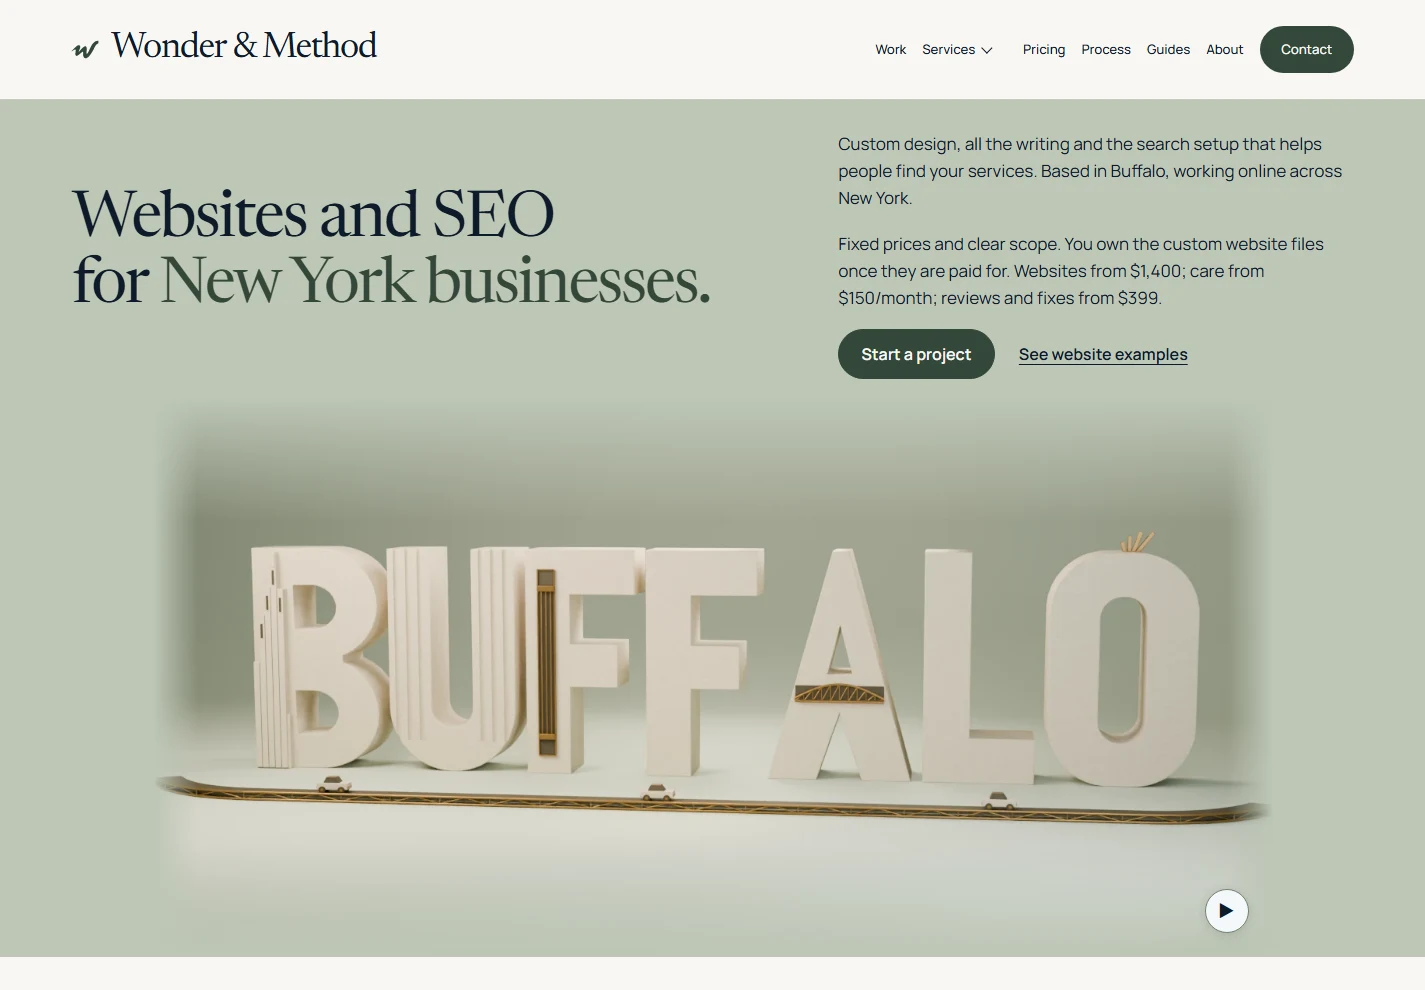
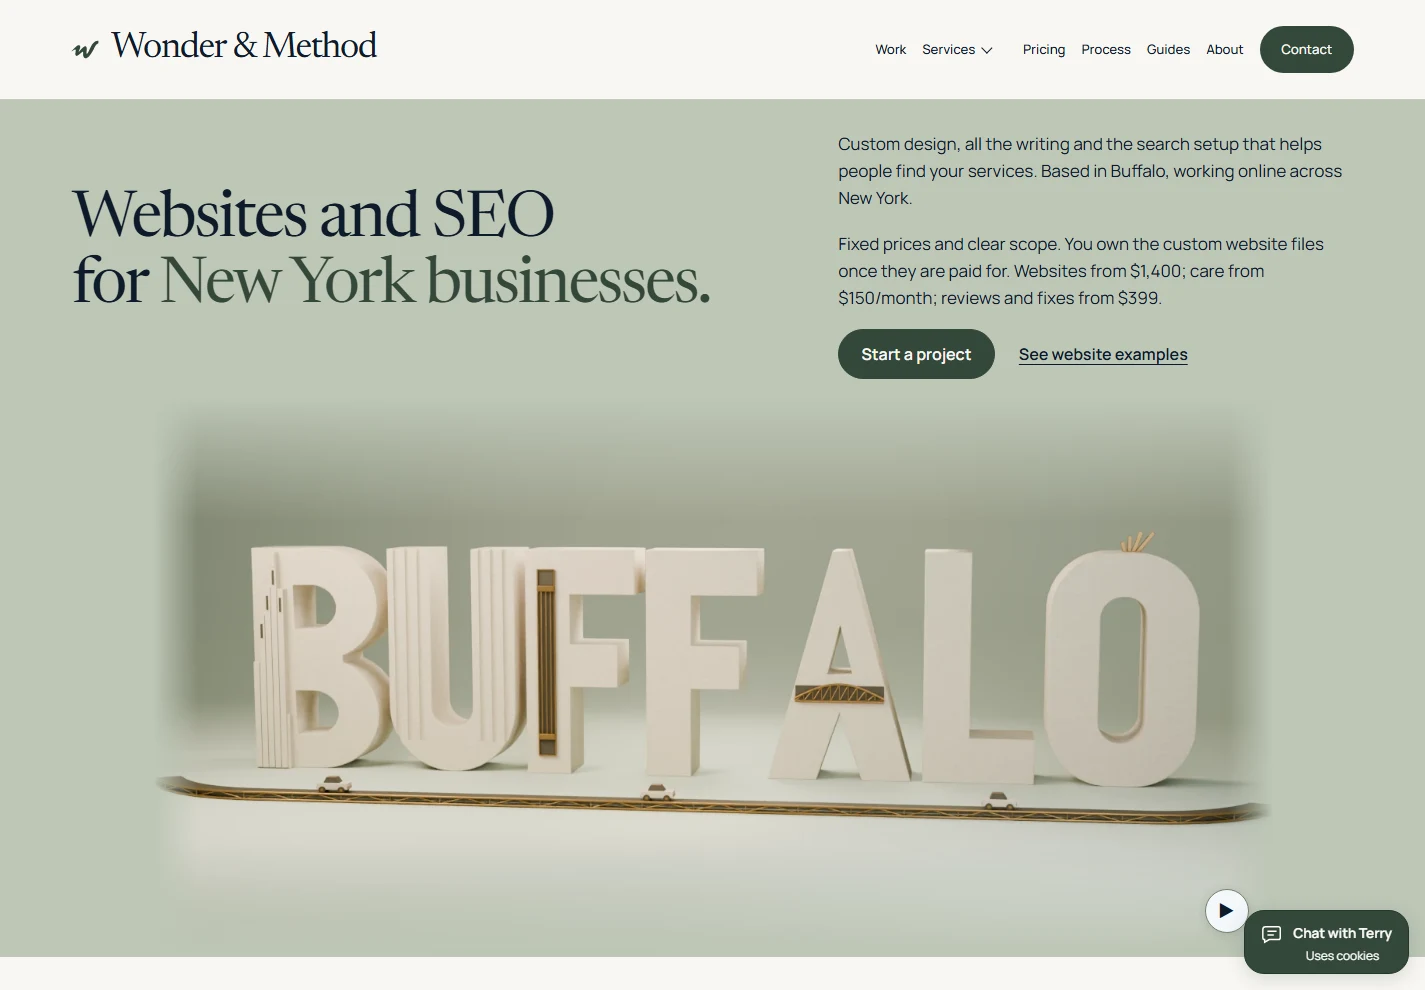
Keep floating controls steady while scrolling

Changed region(s): [[0.8646, 0.9091, 0.9881, 1.0]]

diff --git a/src/assets/page-navigation.js b/src/assets/page-navigation.js
@@ -20,46 +20,25 @@ if(header){
   root.classList.add('page-tools-ready');
   topLink.hidden=true;
   const floating=[topLink,document.querySelector('.support-chat-launch')].filter(Boolean);
-  const nearby=new Set();
-  let queued=false,obstructions;
+  let queued=false;
   const updateTools=()=>{
    queued=false;
    const active=document.activeElement;
+   // Separate show/hide thresholds prevent chatter near the top boundary.
+   if(active!==topLink)topLink.hidden=scrollY<(topLink.hidden?520:360);
    root.classList.toggle('editing-form',!!active?.matches('input:not([type="hidden"]),textarea,select'));
-   // Only controls entering the bottom strip are measured, never every link on scroll.
-   const bounds=[...nearby].map(el=>el.getBoundingClientRect()).filter(r=>r.width&&r.height);
+   // Yield only to a keyboard-focused control, not every link passing during scrolling.
+   const focused=active?.matches('a[href],button,input:not([type="hidden"]),textarea,select,summary,video[controls],audio[controls],[role="button"],[role="link"]')&&active.matches(':focus-visible')&&active.closest('main,footer')?active.getBoundingClientRect():null;
    for(const control of floating){
-    const r=control.getBoundingClientRect();
-    control.classList.toggle('is-obstructing-controls',bounds.some(p=>r.left<p.right&&r.right>p.left));
+    const r=focused?control.getBoundingClientRect():null;
+    control.classList.toggle('is-obstructing-controls',!!(focused&&r.left<focused.right&&r.right>focused.left&&r.top<focused.bottom&&r.bottom>focused.top));
    }
   };
   const scheduleTools=()=>{if(!queued){queued=true;requestAnimationFrame(updateTools);}};
-  const observeBottom=()=>{
-   obstructions?.disconnect();nearby.clear();
-   if('IntersectionObserver' in window){
-    const strip=Math.ceil(Math.max(96,...floating.map(control=>{
-     const container=control===topLink?control:control.closest('.support-chat');
-     return control.getBoundingClientRect().height+(parseFloat(getComputedStyle(container).bottom)||0)+16;
-    })));
-    obstructions=new IntersectionObserver(entries=>{
-     for(const entry of entries){if(entry.isIntersecting)nearby.add(entry.target);else nearby.delete(entry.target);}
-     scheduleTools();
-    },{rootMargin:`-${Math.max(0,innerHeight-strip)}px 0px 0px 0px`});
-    document.querySelectorAll('main a,main button,main input:not([type="hidden"]),main textarea,main select,main summary,main video[controls],.civic-controls,footer a,footer summary').forEach(el=>obstructions.observe(el));
-   }
-   scheduleTools();
-  };
-  if('IntersectionObserver' in window){
-   const start=document.createElement('span');
-   start.className='page-top-observer';start.setAttribute('aria-hidden','true');document.body.prepend(start);
-   new IntersectionObserver(entries=>{topLink.hidden=entries[0].isIntersecting;scheduleTools();},{rootMargin:'480px 0px 0px 0px'}).observe(start);
-  }else{
-   const updateTop=()=>{topLink.hidden=scrollY<480;};
-   window.addEventListener('scroll',updateTop,{passive:true});updateTop();
-  }
-  observeBottom();
-  if('ResizeObserver' in window){const sizes=new ResizeObserver(observeBottom);floating.forEach(control=>sizes.observe(control));}
-  window.addEventListener('resize',observeBottom,{passive:true});
+  updateTools();
+  window.addEventListener('scroll',scheduleTools,{passive:true});
+  if('ResizeObserver' in window){const sizes=new ResizeObserver(scheduleTools);floating.forEach(control=>sizes.observe(control));}
+  window.addEventListener('resize',scheduleTools,{passive:true});
   window.visualViewport?.addEventListener('resize',scheduleTools,{passive:true});
   document.addEventListener('focusin',scheduleTools);
   document.addEventListener('focusout',scheduleTools);

diff --git a/src/assets/site-refresh.css b/src/assets/site-refresh.css
@@ -534,7 +534,7 @@ form>.optional-choice{margin:1.25rem 0}
 .link-row{display:flex;flex-wrap:wrap;align-items:center;gap:.25rem 1.25rem;list-style:none;margin:1rem 0;padding:0}
 .link-row li{margin:0;padding:0}
 .link-row a,.studio-site :is(.buyer-pack-links,.checkout-alternatives) a{display:inline-flex;align-items:center;min-height:44px;padding-block:.6rem;font-size:1rem}
-.page-top-observer{position:absolute;top:0;left:0;width:1px;height:1px;pointer-events:none}
+html.page-tools-ready{scroll-padding-bottom:calc(6rem + env(safe-area-inset-bottom))}
 /* Fixed corner tools enhance the native footer link after JavaScript is ready. */
 .page-tools-ready .studio-site .site-tools{width:auto;margin:0;padding:0;border:0}
 .page-tools-ready .back-to-top{position:fixed;left:max(1rem,env(safe-area-inset-left));bottom:calc(1rem + env(safe-area-inset-bottom));z-index:50}
